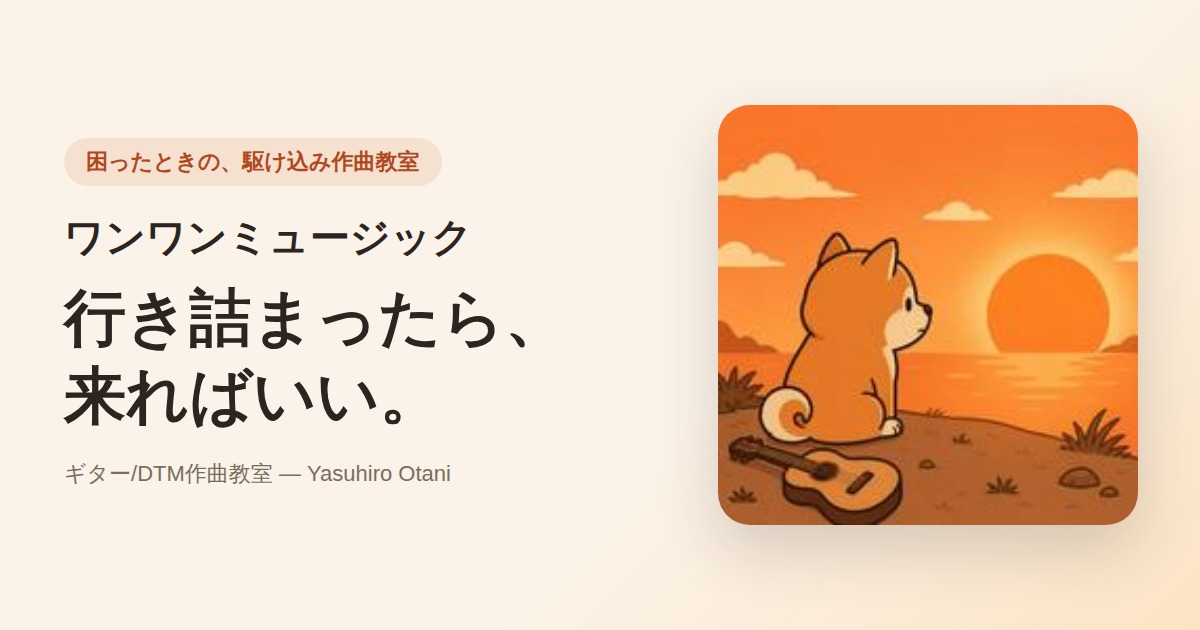
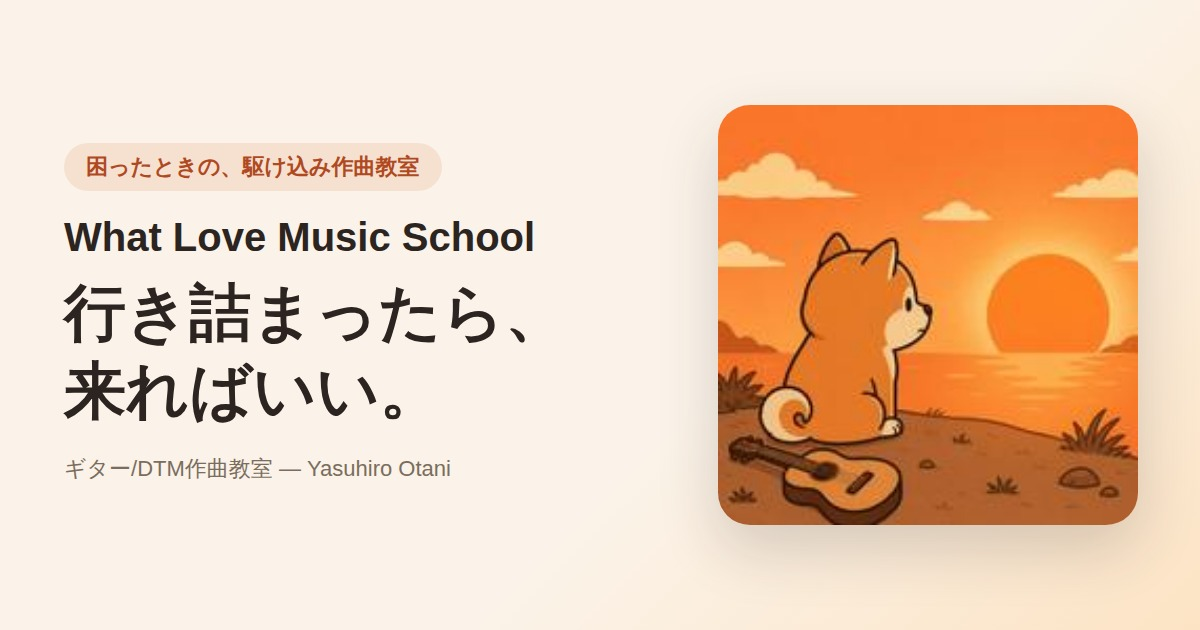
Rename lesson-site to What Love Music School
Replaces the ワンワンミュージック working name with "What Love Music
School" — after Mingus/Dolphy's "What Love" (Charles Mingus Presents
Charles Mingus, 1960), the wordless bass/bass-clarinet "argument" duet
between the two. Ties the brand to a real, specific Mingus-Dolphy
collaboration rather than a generic reference to either alone, and
sidesteps the name collision risk flagged with "Debut" (Doubt Music)
and the Tina Turner song ("What's Love Got to Do with It" vs "What
Love"). Updates title, meta/OG tags, corner logo, and the OG card image.

Claude-Session: https://claude.ai/code/session_01QkwvkPgcskAKWeJFDPMNMa

diff --git a/lesson-site/index.html b/lesson-site/index.html
@@ -3,11 +3,11 @@
 <head>
 <meta charset="UTF-8">
 <meta name="viewport" content="width=device-width, initial-scale=1.0">
-<title>ワンワンミュージック — 行き詰まったら、来ればいい。(ギター/DTM作曲教室)</title>
-<meta name="description" content="独学で伸び悩んだ、受験が迫っている、相談できる相手がいない——本気で困っている人のための駆け込み作曲教室「ワンワンミュージック」。実測データにもとづく再現性の高いメソッドで、行き詰まりの先まで一緒に進みます。">
+<title>What Love Music School — 行き詰まったら、来ればいい。(ギター/DTM作曲教室)</title>
+<meta name="description" content="独学で伸び悩んだ、受験が迫っている、相談できる相手がいない——本気で困っている人のための駆け込み作曲教室「What Love Music School」。実測データにもとづく再現性の高いメソッドで、行き詰まりの先まで一緒に進みます。">
 <link rel="icon" type="image/svg+xml" href="favicon.svg">
 <meta property="og:type" content="website">
-<meta property="og:title" content="ワンワンミュージック — 行き詰まったら、来ればいい。">
+<meta property="og:title" content="What Love Music School — 行き詰まったら、来ればいい。">
 <meta property="og:description" content="独学で伸び悩んだ、受験が迫っている、相談できる相手がいない——本気で困っている人のための駆け込み作曲教室。">
 <meta property="og:url" content="https://lesson.yasuhiro-otani.com/">
 <meta property="og:image" content="https://lesson.yasuhiro-otani.com/images/og-lesson.jpg">
@@ -16,7 +16,7 @@
 </head>
 <body>
 
-<div class="corner-logo">ワンワン<span>♪</span>ミュージック</div>
+<div class="corner-logo">What<span>♥</span>Love</div>
 <button class="menu-trigger" aria-label="Menu">
   <span>MENU</span>
   <span class="bars"><span></span><span></span><span></span></span>
@@ -58,7 +58,7 @@
       </div>
     </div>
     <div class="hero-illustration">
-      <img src="images/mascot-sunset.jpg" alt="夕日を見つめ、途方に暮れているワンワンミュージックのマスコット犬">
+      <img src="images/mascot-sunset.jpg" alt="夕日を見つめ、途方に暮れているWhat Love Music Schoolのマスコット犬">
     </div>
   </div>
 </header>
